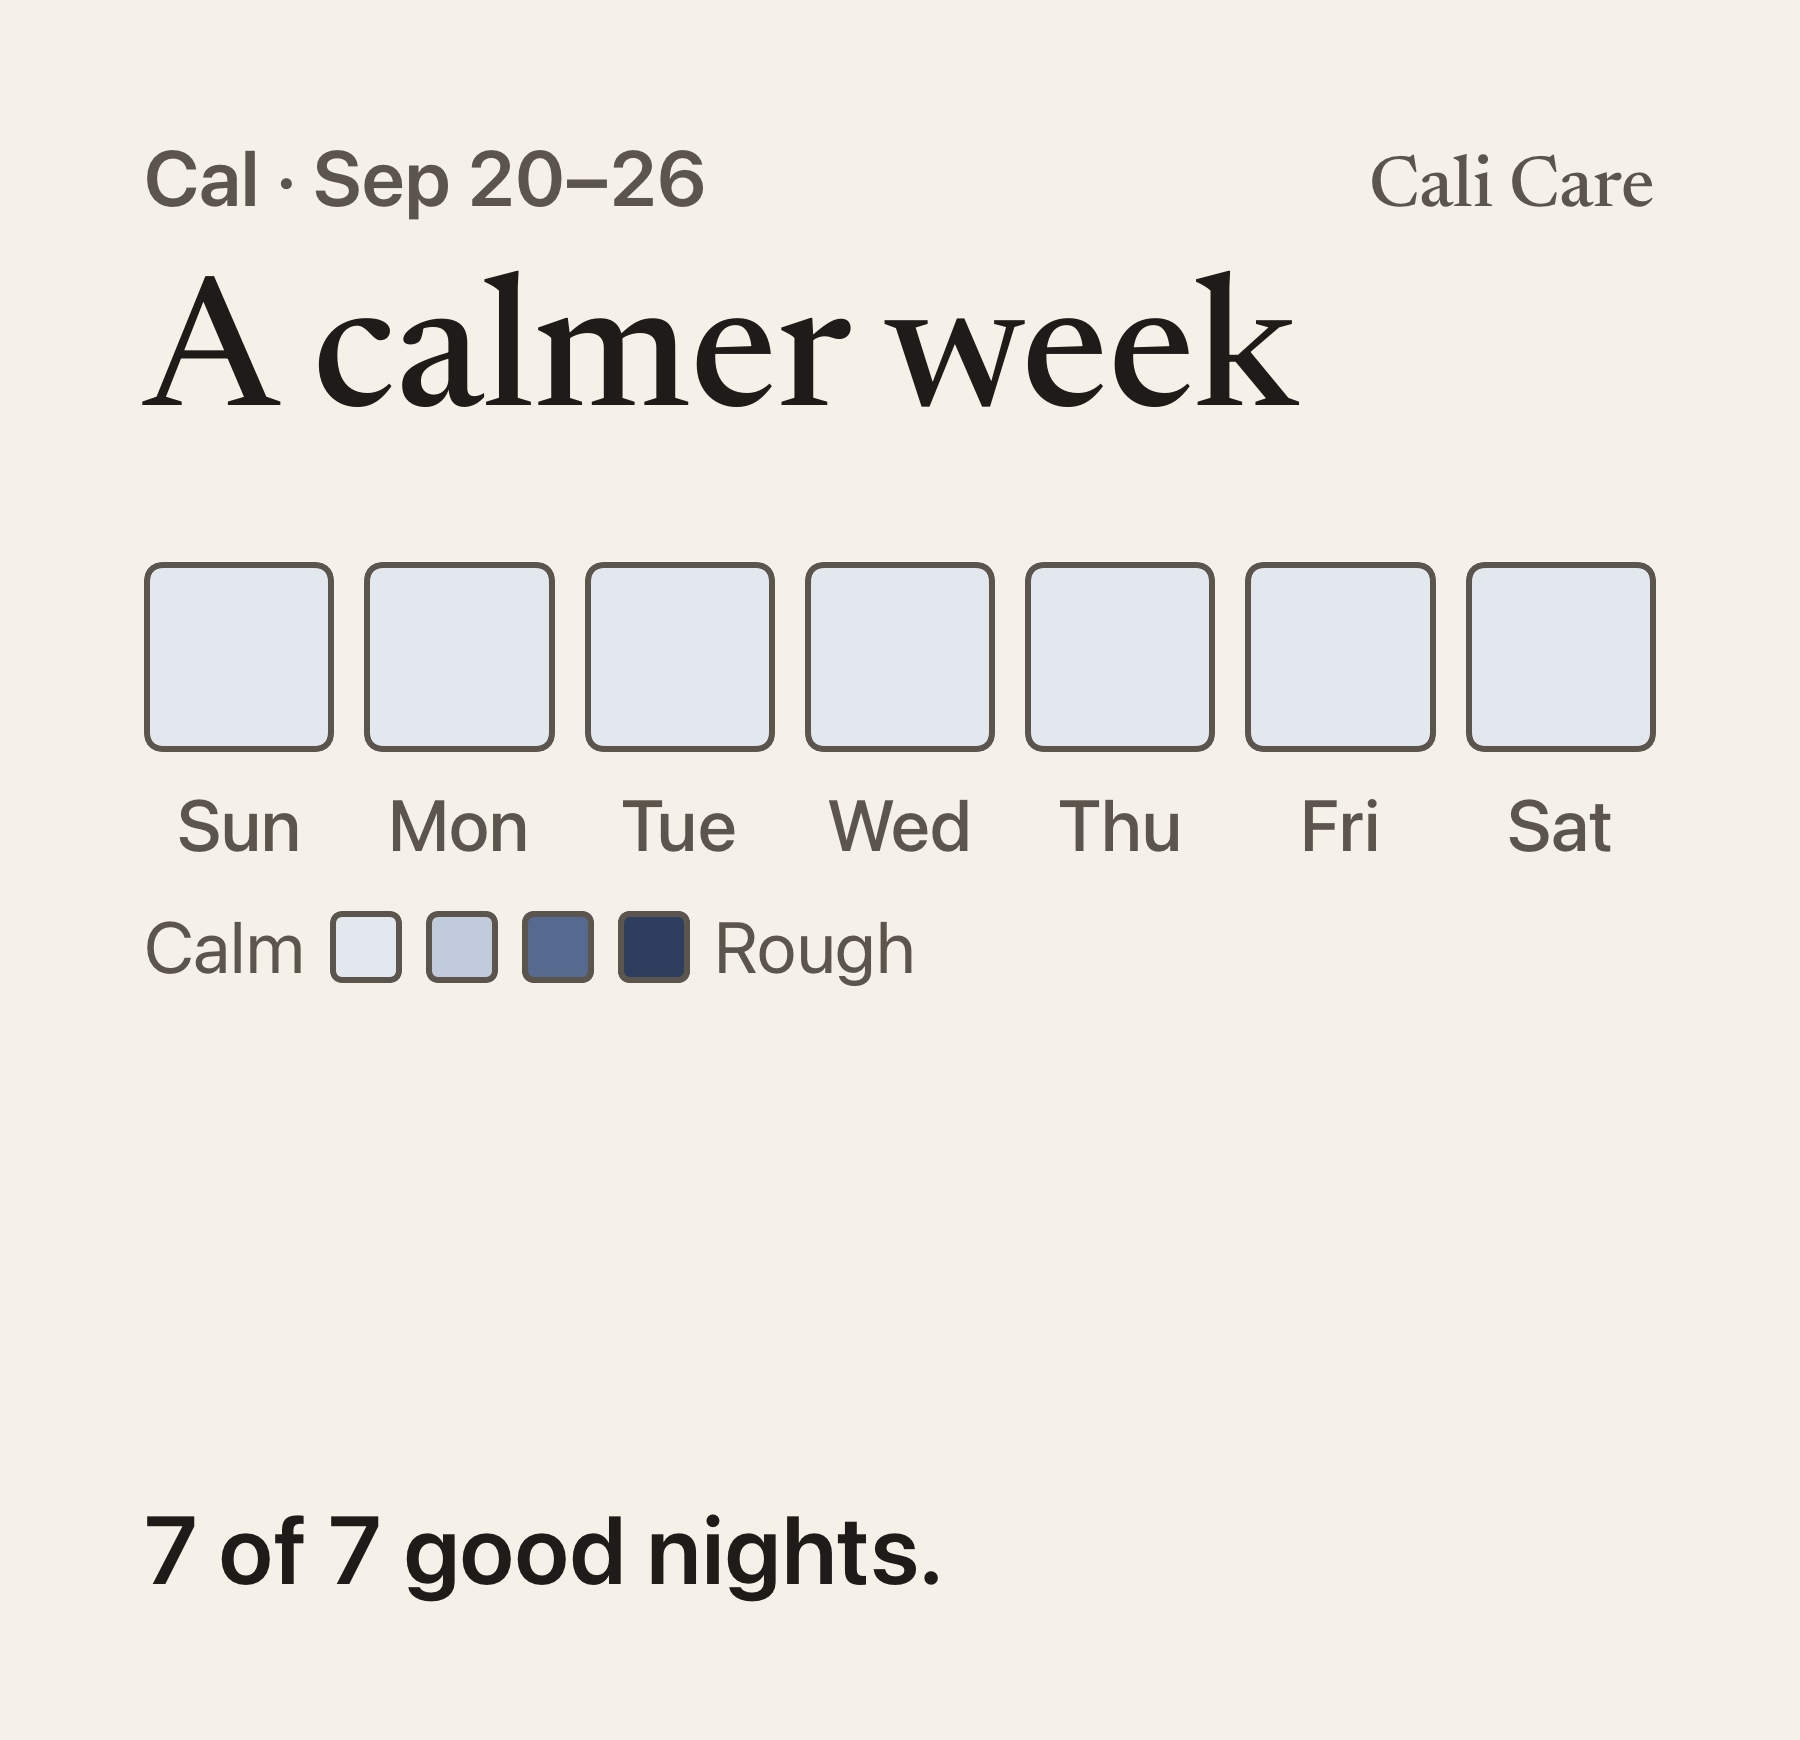
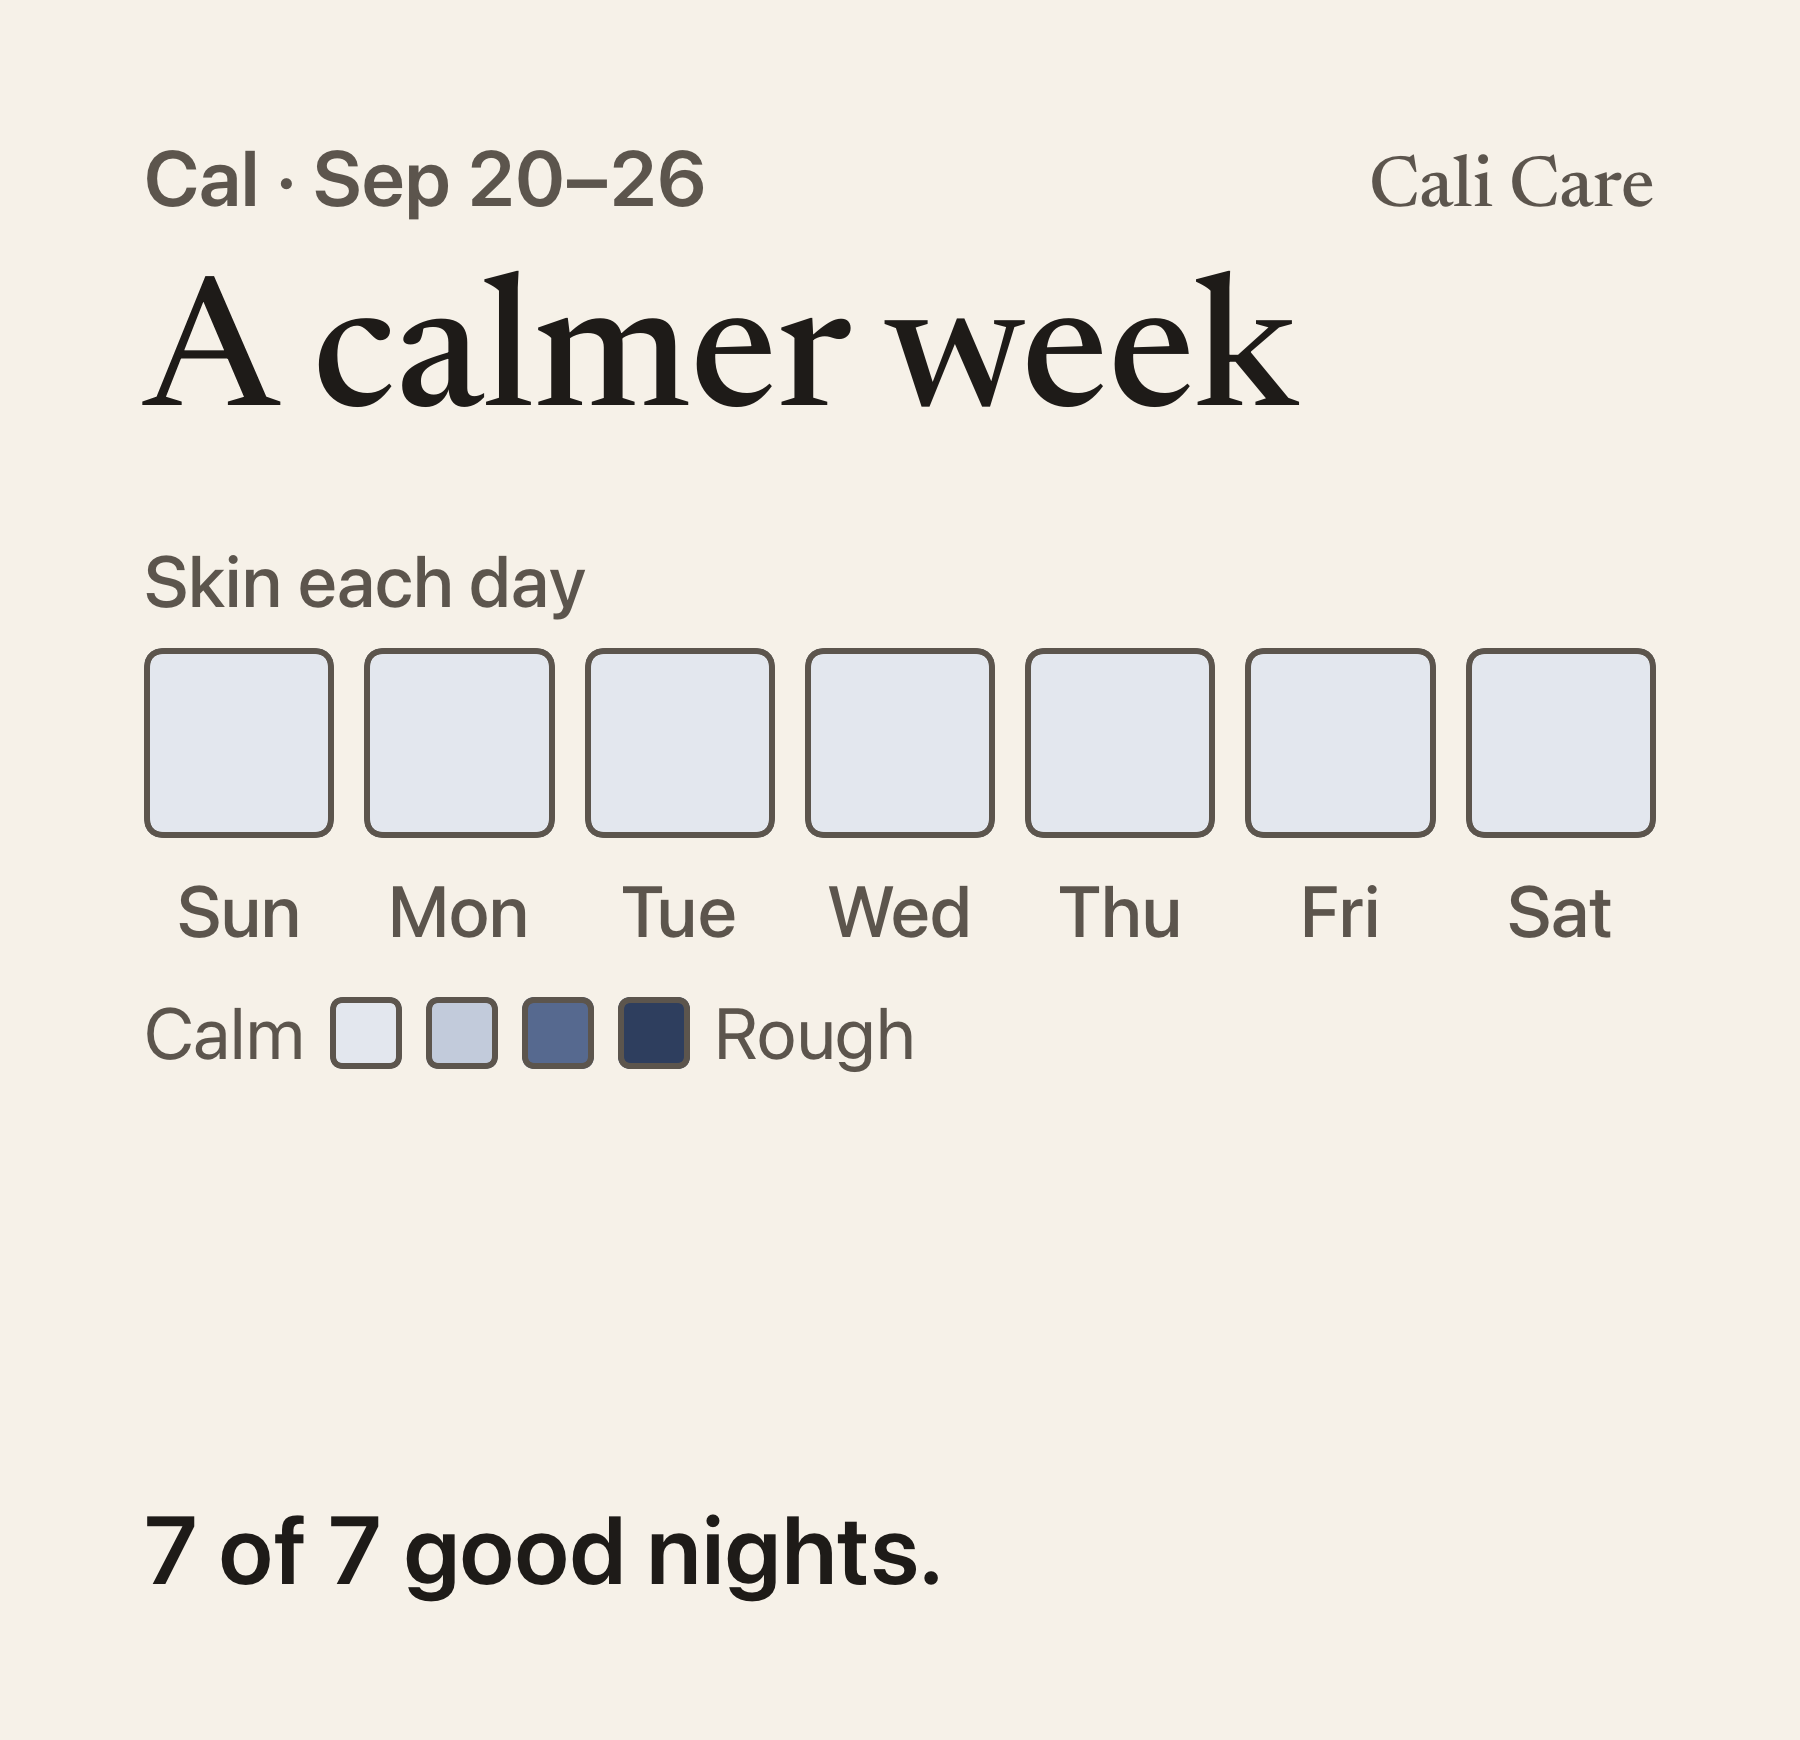
Share this week: show nights when the week has no skin answers
A week logged only at night showed 7 blank squares under 'Itchy
wake-ups went up.' The squares now show each night (rating, or wake-ups)
when no skin was answered, with a 'Nights' label and Good-Rough legend.
Debug: -fillSampleData YES fills sample logs once (skipped when signed in).

Changed region(s): [[0.0622, 0.3103, 0.9333, 0.6207], [0.9022, 0.4345, 0.9333, 0.4655], [0.0622, 0.4345, 0.0933, 0.4655]]

diff --git a/Core/Reports/WeekShareCardView.swift b/Core/Reports/WeekShareCardView.swift
@@ -29,6 +29,15 @@ public struct WeekShareCardView: View {
         }
     }
 
+    /// Nights: good, okay, rough, on the same blues.
+    static func fill(_ night: CareLevel) -> Color {
+        switch night {
+        case .low: fill(.calm)
+        case .medium: fill(.flaring)
+        case .high: fill(.veryRough)
+        }
+    }
+
     private static let serif = "NewsreaderDisplay-Medium"
 
     public var body: some View {
@@ -42,8 +51,12 @@ public struct WeekShareCardView: View {
                 .minimumScaleFactor(0.74)
                 .fixedSize(horizontal: false, vertical: true)
                 .padding(.top, 14)
+            Text(card.squares == .skin ? "Skin each day" : "Nights")
+                .font(.system(size: 24, weight: .medium))
+                .foregroundStyle(Ink.soft)
+                .padding(.top, 28)
             squares
-                .padding(.top, 36)
+                .padding(.top, 8)
             legend
                 .padding(.top, 12)
             Spacer(minLength: 16)
@@ -90,7 +103,7 @@ public struct WeekShareCardView: View {
         VStack(spacing: 10) {
             HStack(spacing: 10) {
                 ForEach(card.days) { day in
-                    square(day.skin)
+                    square(card.squares == .skin ? day.skin.map(Self.fill) : day.night.map(Self.fill))
                 }
             }
             HStack(spacing: 10) {
@@ -106,11 +119,11 @@ public struct WeekShareCardView: View {
         }
     }
 
-    private func square(_ skin: SkinToday?) -> some View {
+    private func square(_ color: Color?) -> some View {
         let shape = RoundedRectangle(cornerRadius: 6)
         return Group {
-            if let skin {
-                shape.fill(Self.fill(skin))
+            if let color {
+                shape.fill(color)
                     .overlay(shape.strokeBorder(Ink.soft, lineWidth: 2))
             } else {
                 shape.strokeBorder(Ink.soft, style: StrokeStyle(lineWidth: 2, dash: [6, 5]))
@@ -121,11 +134,14 @@ public struct WeekShareCardView: View {
     }
 
     private var legend: some View {
-        HStack(spacing: 8) {
-            Text("Calm")
-            ForEach(SkinToday.allCases, id: \.self) { skin in
+        let colors = card.squares == .skin
+            ? SkinToday.allCases.map(Self.fill)
+            : CareLevel.allCases.map(Self.fill)
+        return HStack(spacing: 8) {
+            Text(card.squares == .skin ? "Calm" : "Good")
+            ForEach(colors.indices, id: \.self) { index in
                 RoundedRectangle(cornerRadius: 4)
-                    .fill(Self.fill(skin))
+                    .fill(colors[index])
                     .overlay(RoundedRectangle(cornerRadius: 4).strokeBorder(Ink.soft, lineWidth: 2))
                     .frame(width: 24, height: 24)
             }
@@ -145,6 +161,7 @@ extension WeekShareCard {
         name: String = "Cal",
         headline: String = "A calmer week",
         skins: [SkinToday?],
+        nightLevels: [CareLevel?] = Array(repeating: nil, count: 7),
         nights: String? = "4 of 7 good nights.",
         watch: String? = "More flares."
     ) -> WeekShareCard {
@@ -154,7 +171,7 @@ extension WeekShareCard {
             rangeLabel: "Sep 20–26",
             headline: headline,
             days: skins.enumerated().map { index, skin in
-                Day(day: CareDay(year: 2026, month: 9, day: 20 + index), label: labels[index], skin: skin)
+                Day(day: CareDay(year: 2026, month: 9, day: 20 + index), label: labels[index], skin: skin, night: nightLevels[index])
             },
             nightsLine: nights,
             worthWatching: watch
@@ -176,6 +193,12 @@ extension WeekShareCard {
 
 #Preview("Two days unanswered", traits: .sizeThatFitsLayout) {
     WeekShareCardView(card: .sample(headline: "About the same as last week", skins: [.calm, nil, .littleItchy, nil, .calm, .littleItchy, .calm], watch: nil))
+}
+
+#Preview("Nights only", traits: .sizeThatFitsLayout) {
+    WeekShareCardView(card: .sample(headline: "About the same as last week", skins: Array(repeating: nil, count: 7),
+                                    nightLevels: [.medium, .high, .low, .medium, .high, .medium, .medium],
+                                    nights: "1 of 7 good nights.", watch: "Itchy wake-ups went up."))
 }
 
 #Preview("Long name", traits: .sizeThatFitsLayout) {

diff --git a/App/Debug/DesignReviewLaunch.swift b/App/Debug/DesignReviewLaunch.swift
@@ -26,6 +26,7 @@ enum DesignReviewLaunch {
         if UserDefaults.standard.bool(forKey: "restoreOwnSteps") {
             Task { await restoreOwnSteps() }
         }
+        if UserDefaults.standard.bool(forKey: "fillSampleData") { Task { await fillSampleDataOnce() } }
         if let kind = UserDefaults.standard.string(forKey: "designReviewSeed"), ["YES", "UNRATED", "EMPTY", "MONTHS", "TWO", "SAMPLE", "PLAN", "PLANSTARTED", "LEGACYPLAN"].contains(kind) {
             UserDefaults.standard.set(true, forKey: OnboardingFlag.key)
             Task { await seed(kind) }
@@ -175,6 +176,29 @@ enum DesignReviewLaunch {
             _ = try? await logs.log(.nightRating, value: .night(.okay), child: cal.id, source: .notification, at: at(7, 5))
         }
         _ = try? await logs.log(.bowelMovement, child: cal.id, source: .app, at: at(9, 10))
+        await LogChanges.didChange()
+    }
+}
+extension DesignReviewLaunch {
+    /// A test phone (launched with `-fillSampleData YES`): the same eight weeks
+    /// as Settings › Debug › Fill with sample data, once, for the current child.
+    /// Skipped while signed in, so sample logs never sync. Remove them from
+    /// Settings › Debug.
+    @MainActor
+    static func fillSampleDataOnce() async {
+        let doneKey = "sampleDataFilledByLaunch"
+        guard !UserDefaults.standard.bool(forKey: doneKey) else { return }
+        guard Backend.client?.auth.currentSession == nil else {
+            print("fillSampleData: signed in, skipped")
+            return
+        }
+        guard let container = try? CaliCareModelContainer.shared(),
+              let child = try? await ChildStore(modelContainer: container).currentChild(),
+              let steps = try? await SampleData.fill(child: child.id, container: container)
+        else { return }
+        let saved = (UserDefaults.standard.stringArray(forKey: SampleDataSection.stepsKey) ?? []) + steps.map(\.uuidString)
+        UserDefaults.standard.set(saved, forKey: SampleDataSection.stepsKey)
+        UserDefaults.standard.set(true, forKey: doneKey)
         await LogChanges.didChange()
     }
 }

diff --git a/CoreTests/WeekShareCardTests.swift b/CoreTests/WeekShareCardTests.swift
@@ -39,6 +39,17 @@ struct WeekShareCardTests {
         #expect(card.days.map(\.label) == ["Sun", "Mon", "Tue", "Wed", "Thu", "Fri", "Sat"])
     }
 
+    @Test func aWeekWithOnlyNightsShowsNights() {
+        let nightsOnly = (20...26).map { entry(.nightRating, .night($0 == 22 ? .good : .rough), day: $0, hour: 8) }
+            + [entry(.itchEpisode, day: 23, hour: 2)]
+        let card = card(nightsOnly)
+        #expect(card.squares == .nights)
+        #expect(card.days.map(\.night) == [.high, .high, .low, .high, .high, .high, .high])
+
+        let withSkin = self.card(nightsOnly + [skin(.calm, 24)])
+        #expect(withSkin.squares == .skin, "any skin answer keeps the squares on skin")
+    }
+
     @Test func theWeekLabel() {
         #expect(WeekShareCard.rangeLabel(ending: weekEnding, calendar: calendar, locale: locale) == "Sep 20–26")
         let crossing = CareDay(year: 2026, month: 10, day: 5)
@@ -68,6 +79,9 @@ struct WeekShareCardTests {
             ("rough", .sample(headline: "A harder week", skins: [.flaring, .veryRough, .veryRough, .flaring, .flaring, .littleItchy, .veryRough],
                               nights: "1 of 7 good nights.", watch: "Itchy wake-ups went up.")),
             ("two-unanswered", .sample(headline: "About the same as last week", skins: [.calm, nil, .littleItchy, nil, .calm, .littleItchy, .calm], watch: nil)),
+            ("nights-only", .sample(headline: "About the same as last week", skins: Array(repeating: nil, count: 7),
+                                    nightLevels: [.medium, .high, .low, .medium, .high, .medium, .medium],
+                                    nights: "1 of 7 good nights.", watch: "Itchy wake-ups went up.")),
             ("long-name", .sample(name: "Maximilian Alexander", headline: "Not enough logs yet for a summary",
                                   skins: [nil, nil, nil, nil, .calm, .littleItchy, .calm], nights: nil, watch: nil)),
             ("real-week", card((13...19).map { entry(.nightRating, .night(.okay), day: $0, hour: 8) }

diff --git a/Core/Reports/WeekShareCard.swift b/Core/Reports/WeekShareCard.swift
@@ -11,8 +11,23 @@ public struct WeekShareCard: Equatable, Sendable {
         public let label: String
         /// The roughest answer that day; nil when skin wasn't answered.
         public let skin: SkinToday?
+        /// The night: its rating, or how many itchy wake-ups (same as Progress).
+        public let night: CareLevel?
 
         public var id: CareDay { day }
+
+        public init(day: CareDay, label: String, skin: SkinToday?, night: CareLevel? = nil) {
+            self.day = day
+            self.label = label
+            self.skin = skin
+            self.night = night
+        }
+    }
+
+    /// What the seven squares show. Skin when any day this week has a skin
+    /// answer; otherwise nights, so a week logged only at night isn't blank.
+    public enum Squares: Equatable, Sendable {
+        case skin, nights
     }
 
     public let childName: String
@@ -21,6 +36,9 @@ public struct WeekShareCard: Equatable, Sendable {
     public let headline: String
     /// Oldest first.
     public let days: [Day]
+    public var squares: Squares {
+        days.contains { $0.skin != nil } || !days.contains { $0.night != nil } ? .skin : .nights
+    }
     /// "4 of 7 good nights." Nil when no night was rated.
     public let nightsLine: String?
     /// The short worth-watching line, if any.
@@ -64,7 +82,8 @@ public struct WeekShareCard: Equatable, Sendable {
                 Day(
                     day: day.day,
                     label: weekday.string(from: day.day.noon(calendar: calendar)),
-                    skin: Self.roughest(on: day.day, in: mine, calendar: calendar)
+                    skin: Self.roughest(on: day.day, in: mine, calendar: calendar),
+                    night: day.night
                 )
             },
             nightsLine: report.ratedNights > 0 ? "\(report.goodNights) of 7 good nights." : nil,

diff --git a/docs/06-decisions.md b/docs/06-decisions.md
@@ -683,3 +683,4 @@ The owner saw the v2 redesign on the phone and asked for it to be reverted. The 
 - **Its own blue skin scale and no "Not medical advice" line:** the owner's choice for a picture read about 250pt wide (see DESIGN.md §10).
 - **Which week:** the Week view is a rolling 7 days ending today, so the day labels are the real weekdays in order, not always Mon–Sun.
 - **What it replaced:** the button replaced the "Share this week's card" text link. The older 600×750 card is still sent by the Messages app and the Shortcuts weekly auto-send.
+- **A week with no skin answers shows nights** (October 11, 2026). The owner's real week had nights and wake-ups but no skin answers, so all 7 squares were blank under "Itchy wake-ups went up." Now the squares show skin whenever any day has an answer, and otherwise each night: the rating, or the wake-up count when it isn't rated, the same as Progress. A small label ("Skin each day" or "Nights") and the legend ("Calm…Rough" or "Good…Rough") say which.
